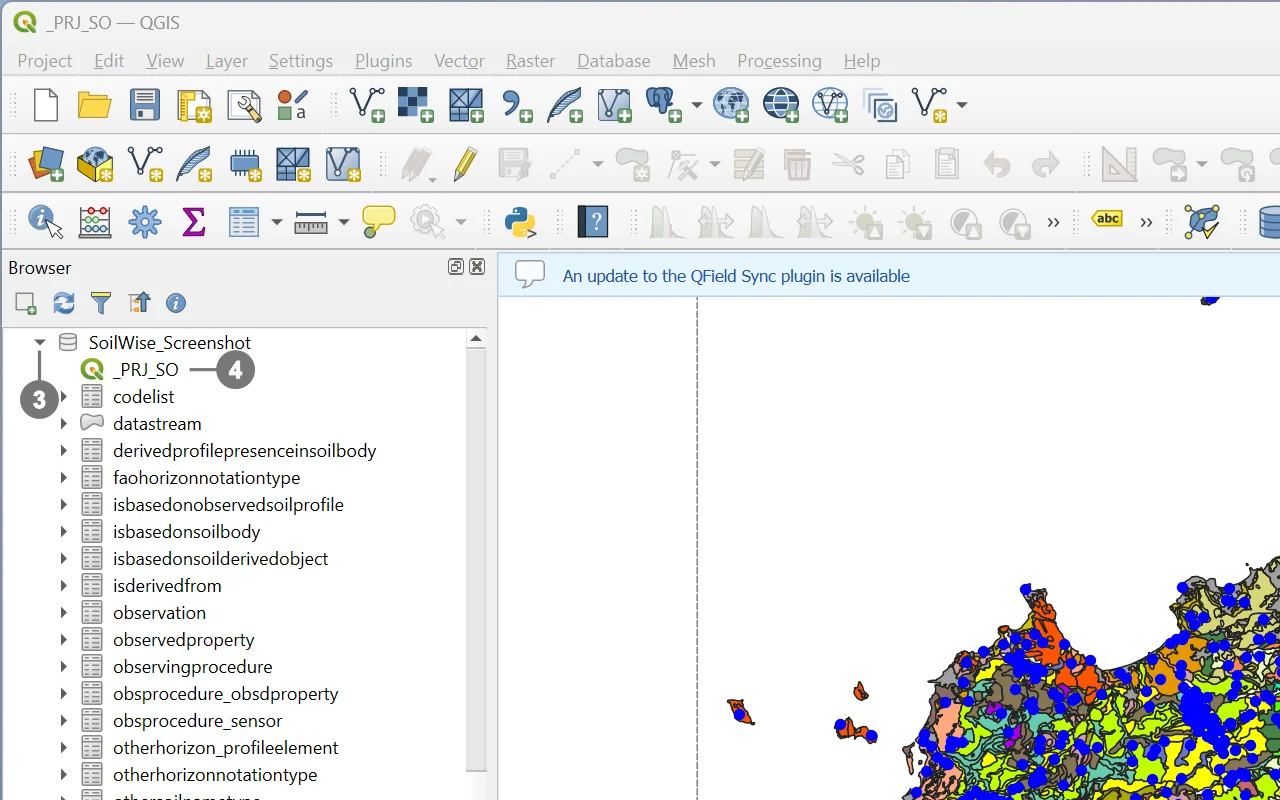
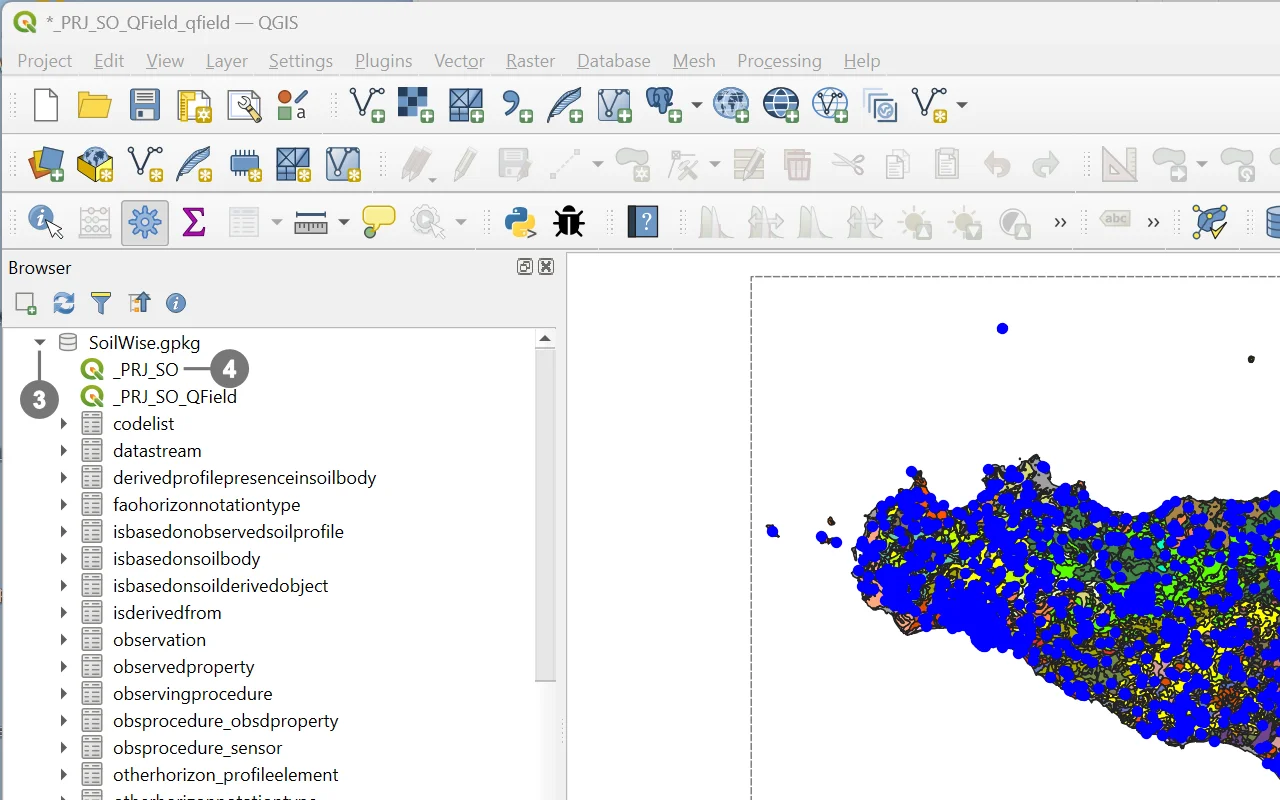
Added a customized project for QField usage

diff --git a/documentation/_includes/sidebar.html b/documentation/_includes/sidebar.html
@@ -89,10 +89,10 @@
     {% endif %}
 
     {%- comment -%}
-    2) Folder groups shown in the sidebar (qgis, tables, ...)
+    2) Folder groups shown in the sidebar (qgis, qfield, tables, ...)
        Index del gruppo in cima; escludi index delle sottocartelle e dedup per URL normalizzato.
     {%- endcomment -%}
-    {% assign groups = "qgis,tables" | split: "," %}
+    {% assign groups = "qgis,qfield,tables" | split: "," %}
     {% for g in groups %}
       {% assign group_prefix = g | append: "/" %}
       {% assign group_dir = "/" | append: group_prefix %}

diff --git a/documentation/qfield/use_plugin.md b/documentation/qfield/use_plugin.md
@@ -1,0 +1,146 @@
+
+# QField – Operational Guide (QGIS ⇆ QField)
+This short guide briefly describes:
+- how to **install the QField plugin (QFieldSync) from QGIS**;
+- how to **identify the projects** inside the provided **GeoPackage**;
+- how to **export/package the QGIS project** for use with QField (Android, iOS, Windows);
+- how to **transfer the data to the device** for use with QField (Android, iOS, Windows).
+
+> [!IMPORTANT]
+> This is an introductory guide; for more details on using QField and its plugin, please refer to the  official [QFieldSync for Cable Packaging](https://docs.qfield.org/get-started/tutorials/get-started-qfs/) documentation.
+
+
+## Install the QField plugin from QGIS
+
+### Step‑by‑step procedure
+<p>
+  <a href="../assets/qfield_04.webp" target="_blank">
+    <img src="../assets/qfield_04.webp"
+         alt="Fig.1" align="left" width="500">
+  </a>
+<strong>Open QGIS</strong> (Desktop).<br>
+<br>   
+① Go to <strong>Plugins → Manage and Install Plugins…</strong> <br>
+<br>
+In the search field, type <strong>“QFieldSync”</strong> ② (in some installations it is shown as <strong>“QField”</strong>).<br>
+<br>   
+Select <strong>QFieldSync</strong> ③ and click <strong>Install Plugin</strong>.④ <br>
+<br>   
+(Optional) Verify it is enabled: <strong>Installed</strong> tab → check <strong>QFieldSync</strong>.
+</p>
+<br clear="all"><br> 
+
+
+### What the plugin enables
+- **Layer configuration** for offline use (copy to GeoPackage, attachment handling).
+- **Export/Packaging** of the project for QField.
+- Conversion to **relative paths**, copying of resources (icons, media), inclusion of styles and forms.
+
+> [!TIP]
+> Before exporting, always save the QGIS project and ensure **paths are relative** (**Project → Properties → Paths**) to avoid broken links on the device.
+
+## Identifying the project in the GeoPackage
+The provided GeoPackage contains **two different QGIS projects** that point to the **same data source** (the same layers/tables in the same `.gpkg`):
+
+<p>
+  <a href="../assets/qfield_05.webp" target="_blank">
+    <img src="../assets/qfield_05.webp"
+         alt="Fig.1" align="left" width="500">
+  </a>
+① <strong>Project `_PRJ_SO` for QGIS – Optimized for desktop</strong> use (full symbology, views, and tools for office work).<br>
+<br>
+②  <strong>Project `_PRJ_SO_QField` for QField – Optimized for mobile devices</strong> with <strong>custom forms</strong>, pre‑filled fields, simplified widgets, and constraints for field data capture.<br>
+</p>
+<br clear="all"><br> 
+
+- **Project `_PRJ_SO` for QGIS** – Optimized for **desktop** use (full symbology, views, and tools for office work).
+- **Project `_PRJ_SO_QField` for QField** – Optimized for **mobile devices** with **custom forms**, pre‑filled fields, simplified widgets, and constraints for field data capture.
+
+Both projects use **the same GeoPackage** as their data source; this ensures consistency and alignment between office work and field work.
+
+> [!NOTE]
+> - Open `_PRJ_SO` in **QGIS** when working on desktop.
+> - Open `_PRJ_SO_QField` in **QField** (or use it as the source for export via QFieldSync).
+
+## Exporting/Packaging the QGIS project for QField
+
+<p>
+  <a href="../assets/qfield_06.webp" target="_blank">
+    <img src="../assets/qfield_06.webp"
+         alt="Fig.1" align="left" width="500">
+  </a>
+From the <strong>QFieldSync</strong> menu or toolbar, choose <strong>Export/Package for QField</strong>. ①<br>
+<br>   
+Select the <strong>destination folder</strong>. ② <br>
+<br>   
+③ Configure layers for offline use <strong>Project Configuration</strong> <br>
+<br>   
+④ Start the export: the plugin will copy data, styles, and resources, converting paths to <strong>relative</strong> ones.
+</p>
+<br clear="all"><br> 
+
+
+>[!TIP]
+> For **each layer**, you can set the mode in **Project Configuration**:
+> - **Copy to GeoPackage** *(recommended)*: creates an offline copy for field editing.
+> - **Keep original path**: keeps the reference to the external file (less portable).
+> - **Read‑only**: if it must not be edited.
+
+
+>[!NOTE]
+> Unless there are specific needs, it is discouraged to change the project configuration. The full export of the GeoPackage can be performed without altering the configuration.
+
+
+### Typical resulting structure:
+
+<p>
+  <a href="../assets/qfield_07.webp" target="_blank">
+    <img src="../assets/qfield_07.webp"
+         alt="Fig.1" align="left" width="500">
+  </a>
+/Project_QField/<br>
+├─ <strong>project.qgs </strong> ① QGIS/QField project file.<br>
+├─ <strong>image.png   </strong> ② Image used by the project (see notes below).<br>
+├─ <strong>package.zip </strong> ③ Archive for distribution/transfer/Project_QField/<br>
+└─ <strong>database.gpkg </strong> ④ Data store (GeoPackage).
+</p> 
+  
+<br clear="all"><br> 
+
+
+### What each file is for
+- **`.qgs`** → The *project file* (map, layers, styles, forms). This is the file you open in **QGIS** and **QField**.
+
+- **Best practice:** In QGIS, set **Project → Properties → Paths → ‘Store relative paths’** to avoid broken links on the device.
+
+- **`.gpkg`** → The *GeoPackage* that contains your layers/tables and, if configured, attachments. QField reads and (optionally) edits this file offline.
+
+- **`.png`** → An image referenced by the project. It may be used as one of the following:
+  - **Project icon** (*Project Properties → General → Project icon*),
+  - **Form image** (a widget in a custom form),
+  - **Raster symbol/marker** in a layer style,
+  - **Thumbnail** generated during export.
+
+## Transfer to device
+- **Android/iOS:** copy the folder/zip via **USB** or **cloud** (OneDrive/Drive/Nextcloud). On iOS, use the **Files** app or share directly with QField.
+- **Windows:** copy the folder/zip and open the project with **QField for Windows**.
+
+>[!WARNING]
+>  **Write errors:** make sure layers are not read‑only and that the device allows writing to the project folder.  
+> **Heavy rasters:** consider **resampling** or using lighter tiles for better performance on mobile.
+
+
+## Synchronization of the QField‑edited project in the SoilWise Geopackage
+
+<p>
+  <a href="../assets/qfield_10.webp" target="_blank">
+    <img src="../assets/qfield_10.webp"
+         alt="Fig.1" align="left" width="500">
+  </a>
+From the <strong>QFieldSync</strong> menu or toolbar, choose <strong>Sinchronize from QField</strong>. ①<br>
+<br>   
+Select the <strong>folder containing </strong> ②  the QField project that you have copied back to your computer after the editing session, or directly access the project folder on the device if it is still connected. <br>
+<br>   
+③ <strong>Sinchronize</strong> <br>
+</p>
+<br clear="all"><br> 

diff --git a/documentation/qfield/install.md b/documentation/qfield/install.md
@@ -1,0 +1,85 @@
+
+# What is QField
+**QField** is a mobile application developed by *OPENGIS.ch* designed to bring the power and flexibility of GIS projects created in **QGIS** directly into the field. The main goal of QField is to allow technicians, researchers, and field operators to collect, view, and update geographic data directly from a smartphone or tablet, while maintaining **full interoperability** with the QGIS desktop environment.
+
+Thanks to an intuitive interface optimized for touch devices and real-world working conditions, QField minimizes manual operations and provides fast tools for form filling, geolocation, and the acquisition of photos and media.
+
+#### Main features
+- **Offline/online editing** – Allows work even without a connection, saving changes locally with later synchronization.
+- **Custom forms** – QField interprets and uses forms configured in QGIS (rules, widgets, required fields, default values).
+- **Data management via GeoPackage** – A single container for vector data, raster files, attachments, and configurations.
+- **Optimized touch interface** – Tools that can be easily used even with one hand.
+- **Synchronization with QGIS through QFieldSync** – Enables preparation, export, and import of projects.
+- **QFieldCloud support (optional)** – For real-time multi-user collaboration.
+
+
+
+## Installing QField (Android, iOS, Windows)
+Installing **QField** is simple and varies depending on the operating system used. The app is available for **Android**, **iOS**, and **Windows**, with consistent functionality adapted to different devices.
+
+## Android
+
+<p>
+  <a href="../assets/qfield_01.webp" target="_blank">
+    <img src="../assets/qfield_01.webp"
+         alt="Fig.1" align="left" width="500">
+  </a>
+① Open <strong>Google Play Store</strong>. <br>
+<br>
+② Search for <strong>QField</strong>.<br>
+<br>
+③ Select the official <strong>OPENGIS.ch</strong> app.<br>
+<br>
+④ Tap <strong>Install</strong>.
+</p>
+<br clear="all"><br> 
+
+>[!NOTE]
+> Compatible with smartphones, tablets, and rugged devices used in field operations.
+
+## iOS (iPhone/iPad)
+
+<p>
+  <a href="../assets/qfield_02.webp" target="_blank">
+    <img src="../assets/qfield_02.webp"
+         alt="Fig.1" align="left" width="500">
+  </a>
+① Open the <strong>App Store</strong>.<br>
+<br>
+② Search for <strong>QField</strong>.<br>
+<br>
+③ Tap <strong>Get</strong>.
+</p>
+<br clear="all"><br> 
+
+
+>[!NOTE]
+>On iOS, file transfer may require the Files app or cloud services.
+
+
+## Windows (tablet rugged, Surface, laptop)
+QField is also available for Windows through the Microsoft Store, ideal for rugged tablets, 2‑in‑1 devices, and laptops used for fieldwork.
+
+<p>
+  <a href="../assets/qfield_03.webp" target="_blank">
+    <img src="../assets/qfield_03.webp"
+         alt="Fig.1" align="left" width="500">
+  </a>
+①  Open the Microsoft Store on your Windows device.<br>
+<br> 
+②  Type <strong>"QField”</strong> into the search bar.<br>
+<br>  
+③  Select the official <strong>"QField”</strong> for Windowsapp developed by OPENGIS.ch.<br>
+<br>
+④ Click <strong>Install</strong> to start the download and automatic installation.
+</p>
+<br clear="all"><br> 
+
+
+>[!NOTE]
+> The app can be installed without administrative privileges (depending on company policies).  
+>
+> Once installed, QField will appear in the Start menu like any other Windows app.  
+>
+> It is particularly suitable for tablets with integrated GPS or rugged devices used for fieldwork.
+

diff --git a/documentation/qfield/index.md b/documentation/qfield/index.md
@@ -1,0 +1,20 @@
+# Introduction
+
+QField is one of the most effective and versatile tools for collecting geospatial data directly in the field, thanks to its ability to fully inherit the structure, symbology, and logic **defined within a QGIS project**. Its strength lies in enabling fast, reliable work in variable operational conditions, supported by a mobile-optimized interface and robust offline data management through GeoPackage.
+
+Within the SoilWise environment, a **dedicated QGIS project has been prepared** for its corresponding **GeoPackage**, designed to shape the field user experience in advance. Custom forms, controlled dropdown lists, mandatory fields, logical constraints, and dynamic sections serve as essential components for reducing errors and standardizing data acquisition, while maintaining a smooth and intuitive workflow.
+
+Once transferred to the device, the project can be used in QField to record observations, capture geometries via GPS or manual digitizing, attach photographs, and update attributes immediately. The interaction between QGIS and QField thus combines the power of desktop modeling with the practicality of mobile data collection, ensuring data consistency and operational continuity between office work and field activities. This integration makes QField not just a simple data collection tool, but a true extension of the GIS project, supporting professional activities in agricultural, environmental, forestry, or territorial contexts, where precision, speed, and workflow robustness are essential.
+
+
+# Documentation Index
+
+Below is the index of the technical documentation available in this repository:
+
+[How to install Qfield](./install.md)  
+[QFieldSync - Operational Guide ](./use_plugin.md)  
+[Project Loading & Navigation](./interface.md)  
+
+> [!IMPORTANT]
+> This is an introductory guide; for more details on using QField and its plugin, please refer to the [official documentation]( https://docs.qfield.org/).
+

diff --git a/documentation/qfield/interface.md b/documentation/qfield/interface.md
@@ -1,0 +1,51 @@
+# QField — Quick Guide (Project Loading & Navigation)
+
+## Open Soilwise Project
+<p>
+  <a href="../assets/qfield_08.webp" target="_blank">
+    <img src="../assets/qfield_08.webp"
+         alt="Fig.1" align="left" width="500">
+  </a>
+Start <strong>QField</strong>.<br>
+<br>
+Click on <strong>Local project and dataset</strong> ① <br>
+<br>
+Navigate through the file system folders and select the  <strong>`.qgs/.qgz project` </strong>. exported from the SoilWise Geopackage. <br>
+<br>  
+Wait for layers and styles to load.
+</p>
+<br clear="all"><br> 
+
+> [!TIP]
+> If the project doesn't open or some layers are missing, check in QGIS that the **paths** are **relative** (*Project → Properties → Paths*).
+
+
+## Interface Navigation
+
+### Map
+- **Pan/Zoom** (drag, pinch), **Rotation** (two fingers).
+- **GPS**: target button to center on your position.
+
+### Layer Panel
+<p>
+  <a href="../assets/qfield_09.webp" target="_blank">
+    <img src="../assets/qfield_09.webp"
+         alt="Fig.1" align="left" width="500">
+  </a>
+Visibility ① <strong>on</strong> - ② <strong>off</strong> <br>
+<br>
+Select the <strong>editing layer</strong> before editing.<br>
+<br>  
+You can easily switch between ③ view mode and ④ edit mode whenever you need to make changes.<br>
+<br>  
+When ⑤ selecting/creating, a<strong>form</strong> ⑥ opens: required fields, pick‑lists, dates, numbers.
+</p>
+<br clear="all"><br> 
+
+> [!IMPORTANT]
+> This is an introductory guide; for more details on using QField and its plugin, please refer to the [official documentation]( https://docs.qfield.org/).
+
+
+### Mini‑troubleshooting
+- **Inaccurate GPS** → wait for fix, enable high precision (settings), check location provider.
+- **Slow map** → simplify symbology, reduce raster size, use lighter tiles.

diff --git a/documentation/qgis/open_geopackage.md b/documentation/qgis/open_geopackage.md
@@ -50,6 +50,11 @@ Double-click on it, and the project will open.
 > 
 > Loading only a subset of layers may prevent records from being saved: QGIS cannot display or manage related objects if their corresponding layers are not loaded, and due to **relationships and internal database triggers**, this can lead to errors or failed save operations. 
 
+> [!CAUTION]
+The GeoPackage contains two separate QGIS project files: one customized specifically for desktop use, named **_PRJ_SO**, and another configured for mobile data collection with QField, named **_PRJ_SO_Qfield**. Although both projects can be opened and used in QGIS, the **_PRJ_SO** project has been explicitly designed to take full advantage of QGIS capabilities, including advanced layer configurations, customized forms, validation rules, and all desktop-oriented functionalities described in this document.
+> 
+> For this reason, users are strongly advised to work with the **_PRJ_SO** project **when operating in QGIS**, ensuring optimal performance and full access to the project’s intended features.
+
 > [!WARNING]
 >If the GeoPackage **file has been renamed**, the project will not load correctly.  
 >To resolve this issue, please refer to the solutions described in the documentation [How to Handle Issues Caused by Renaming the Soilwise GeoPackage](./rename_geopackage.md) 

diff --git a/documentation/qgis/wrb_classification.md b/documentation/qgis/wrb_classification.md
@@ -57,7 +57,7 @@ Navigate to the "WRB Qualifier" tab, ④ click the pencil icon <strong>"Toggle e
 <br>
 A window will open ⑦ allowing you to insert both prefixes and suffixes and their position within the classification.<br>
 <br>
-The <strong>"Soil Prile" field</strong> ⑧ will already contain the name of the selected "Soil Profile".<br>
+The <strong>"Soil Profile" field</strong> ⑧ will already contain the name of the selected "Soil Profile".<br>
 <br>
 Define the position ⑨ of the prefix or suffix within the classification.<br>
 <br>
